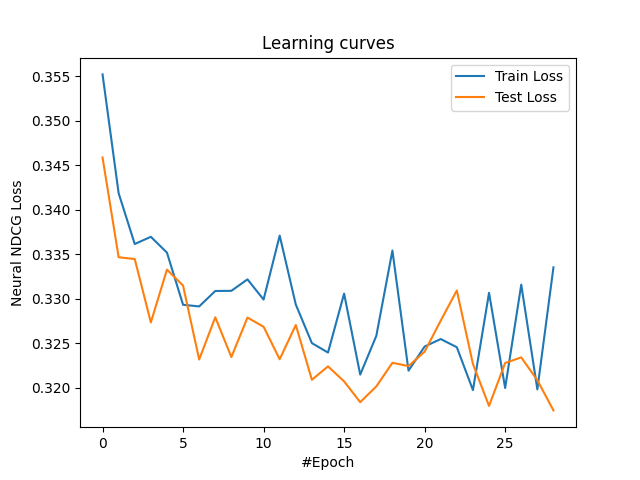
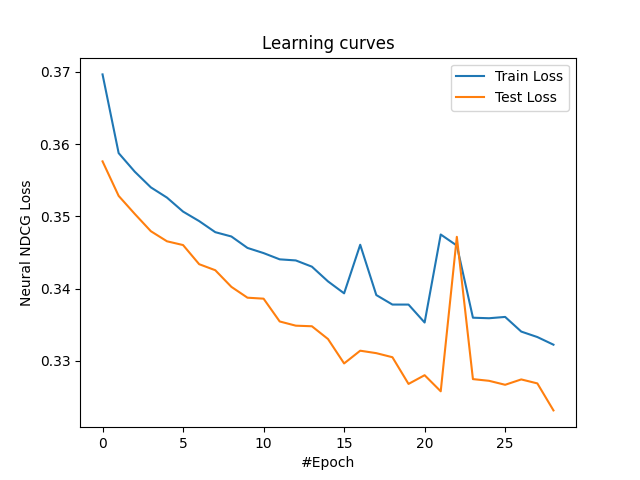
new experiments

diff --git a/src/process_dataset.py b/src/process_dataset.py
@@ -1,12 +1,16 @@
 import numpy as np
 from data_loaders import get_dataset, get_pairwise_dataset
 import pickle
-
+import os
 
 def save_dataset(qids, X, y, folder):
     """
     Save the dataset in the provided folder.
     """
+
+    if not os.path.exists(folder):
+        os.mkdir(folder)
+
     pickle.dump(qids, open(f'{folder}/qids.pickle', 'wb'))
     pickle.dump(y, open(f'{folder}/y.pickle', 'wb'))
     pickle.dump(X, open(f'{folder}/X.pickle', 'wb'))
@@ -181,6 +185,56 @@ def upsample_dataset(qids: np.ndarray, X: np.ndarray, y: np.ndarray):
 
     return qids_upsampled, y_upsampled, X_upsampled
 
+
+def group_by_qids_qbq(qids, y, X):
+    unique_quids = np.unique(qids)
+
+    y_grouped = []
+    X_grouped = []
+    qids_grouped = []
+
+    for qid in unique_quids:
+        mask = (qids == qid)
+
+        y_g = y[mask]
+        X_g = X[mask]
+
+
+        y_grouped.append(y_g)
+        X_grouped.append(X_g)
+        qids_grouped.append(qid)
+
+    qids_grouped = np.array(qids_grouped)
+    return qids_grouped, y_grouped, X_grouped
+
+def group_by_qids(qids, y, X):
+    """
+    Groups the dataset by query id
+    """
+    unique_quids = np.unique(qids)
+    y_grouped = []
+    X_grouped = []
+    qids_grouped = []
+
+    for qid in unique_quids:
+        mask = (qids == qid)
+
+        y_g = y[mask]
+        X_g = X[mask]
+
+        if y_g.shape[0] != 8:
+            continue
+
+        y_grouped.append(y_g)
+        X_grouped.append(X_g)
+        qids_grouped.append(qid)
+
+    # print(y_grouped[100].shape)
+    y_grouped = np.stack(y_grouped)
+    X_grouped = np.stack(X_grouped)
+    qids_grouped = np.array(qids_grouped)
+    return qids_grouped, y_grouped, X_grouped
+
 # Split the MQ2008 dataset
 def process_MQ2008():
     """
@@ -220,37 +274,11 @@ def process_MQ2008_Grouped():
     """
 
     qids, y, X = get_dataset('../data/MQ2008/min.txt')
-    unique_quids = np.unique(qids)
 
-    y_grouped = []
-    X_grouped = []
-    qids_grouped = []
 
-    for qid in unique_quids:
-        mask = (qids == qid)
-
-        y_g = y[mask]
-        X_g = X[mask]
-
-        if y_g.shape[0] != 8:
-            continue
-
-        y_grouped.append(y_g)
-        X_grouped.append(X_g)
-        qids_grouped.append(qid)
-
-    # print(y_grouped[100].shape)
-    y_grouped = np.stack(y_grouped)
-    X_grouped = np.stack(X_grouped)
-    qids_grouped = np.array(qids_grouped)
-
-    # print(y_grouped.shape)
-    # print(X_grouped.shape)
-    # print(qids_grouped.shape)
+    qids_grouped, y_grouped, X_grouped = group_by_qids(qids, y, X)
 
     qids_train, y_train, X_train, qids_evaluation, y_evaluation, X_evaluation = split_dataset(qids_grouped, X_grouped, y_grouped)
-
-    # print(X_train.shape)
 
     # save the evaluation dataset
     save_dataset(qids_evaluation, X_evaluation, y_evaluation, '../data/evaluation/GroupedMQ2008')
@@ -259,30 +287,16 @@ def process_MQ2008_Grouped():
     # save the upsampled dataset
     save_dataset(qids_train, X_train, y_train, '../data/train/GroupedMQ2008')
 
+
+
 def process_MQ2008_Grouped_QbQ():
     """
     Process the MQ2008 pairwise dataset grouped by query
     """
 
     qids, y, X = get_dataset('../data/MQ2008/min.txt')
-    unique_quids = np.unique(qids)
+    qids_grouped, y_grouped, X_grouped = group_by_qids_qbq(qids, y, X)
 
-    y_grouped = []
-    X_grouped = []
-    qids_grouped = []
-
-    for qid in unique_quids:
-        mask = (qids == qid)
-
-        y_g = y[mask]
-        X_g = X[mask]
-
-
-        y_grouped.append(y_g)
-        X_grouped.append(X_g)
-        qids_grouped.append(qid)
-
-    qids_grouped = np.array(qids_grouped)
 
 
     qids_train, y_train, X_train, qids_evaluation, y_evaluation, X_evaluation = split_dataset_qbq(qids_grouped, X_grouped, y_grouped)
@@ -293,7 +307,118 @@ def process_MQ2008_Grouped_QbQ():
 
     save_dataset(qids_train, X_train, y_train, '../data/train/GroupedQbQMQ2008')
 
+
+
+
+
+def load_folded_dataset(folder_path, fold_paths=[], get_data=lambda x: []):
+    """
+    Load the folded dataset
+    """
+
+    qids_train_folds = []
+    y_train_folds = []
+    X_train_folds = []
+
+    qids_evaluation_folds = []
+    y_evaluation_folds = []
+    X_evaluation_folds = []
+
+    for fold in fold_paths:
+        qids_train_fold, y_train_fold, X_train_fold = get_data(os.path.join(folder_path, fold, 'train.txt'))
+        qids_test_fold, y_test_fold, X_test_fold = get_data(os.path.join(folder_path, fold, 'test.txt'))
+        qids_vali_fold, y_vali_fold, X_vali_fold = get_data(os.path.join(folder_path, fold, 'vali.txt'))
+
+        qids_train_folds.append(qids_train_fold)
+        qids_train_folds.append(qids_test_fold)
+        qids_evaluation_folds.append(qids_vali_fold)
+
+        y_train_folds.append(y_train_fold)
+        y_train_folds.append(y_test_fold)
+        y_evaluation_folds.append(y_vali_fold)
+
+        X_train_folds.append(X_train_fold)
+        X_train_folds.append(X_test_fold)
+        X_evaluation_folds.append(X_vali_fold)
+
+    # print(qids_train_folds)
+
+    return np.concatenate(qids_train_folds), np.concatenate(y_train_folds), np.concatenate(X_train_folds), np.concatenate(qids_evaluation_folds), np.concatenate(y_evaluation_folds), np.concatenate(X_evaluation_folds)
+
+
+
+
+def process_MSLR_pairwise(dataset_name, folder_path, folds = []):
+    """
+    Processes in pairwise format
+    """
+    qids_train, y_train, X_train, qids_evaluation, y_evaluation, X_evaluation = load_folded_dataset(folder_path, folds, get_pairwise_dataset)
+
+    save_dataset(qids_evaluation, X_evaluation, y_evaluation, f'../data/evaluation/{dataset_name}')
+
+    qids_upsampled, y_upsampled, X_upsampled = upsample_pairwise_dataset(qids_train, X_train, y_train)
+    save_dataset(qids_upsampled, y_upsampled, X_upsampled, f'../data/train/{dataset_name}')
+
+
+def process_MSLR_grouped(dataset_name, folder_path, folds = []):
+    """
+    Process MSLR in grouped format
+    """
+    qids_train, y_train, X_train, qids_evaluation, y_evaluation, X_evaluation = load_folded_dataset(folder_path, folds, get_dataset)
+
+    qids_train_grouped, y_train_grouped, X_train_grouped = group_by_qids(qids_train, y_train, X_train)
+    qids_evaluation_grouped, y_evaluation_grouped, X_evaluation_grouped = group_by_qids(qids_evaluation, y_evaluation, X_evaluation)
+
+    save_dataset(qids_evaluation_grouped, X_evaluation_grouped, y_evaluation_grouped, f'../data/evaluation/{dataset_name}')
+    save_dataset(qids_train_grouped, X_train_grouped, y_train_grouped, f'../data/train/{dataset_name}')
+
+
+def process_MSLR_grouped_qbq(dataset_name, folder_path, folds=[]):
+    """
+    Process MSLR in grouped qbq format
+    """
+
+    qids_train, y_train, X_train, qids_evaluation, y_evaluation, X_evaluation = load_folded_dataset(folder_path, folds, get_dataset)
+
+    qids_train_grouped, y_train_grouped, X_train_grouped = group_by_qids_qbq(qids_train, y_train, X_train)
+    qids_evaluation_grouped, y_evaluation_grouped, X_evaluation_grouped = group_by_qids_qbq(qids_evaluation, y_evaluation, X_evaluation)
+
+    save_dataset(qids_evaluation_grouped, X_evaluation_grouped, y_evaluation_grouped, f'../data/evaluation/{dataset_name}')
+    save_dataset(qids_train_grouped, X_train_grouped, y_train_grouped, f'../data/train/{dataset_name}')
+
+def process_MSLR10K_Pairwise():
+    """
+    Processes the MSLR10K dataset
+    """
+    process_MSLR_pairwise("PairwiseMSLR10K", "../data/MSLR-WEB10K", folds=['Fold1', 'Fold2', 'Fold3', 'Fold4', 'Fold5'])
+
+def process_MSLR10K_Grouped():
+    """
+    Processes the MSLR10K grouped dataset
+    """
+    process_MSLR_grouped("GroupedMSLR10K", "../data/MSLR-WEB10K", folds=['Fold1', 'Fold2', 'Fold3', 'Fold4', 'Fold5'])
+
+def process_MSLR10K_Grouped_QbQ():
+    """
+    Processes the MSLR10K grouped query by query dataset
+    """
+    process_MSLR_grouped_qbq("GroupedQbQMSLR10K", "../data/MSLR-WEB10K", folds=['Fold1', 'Fold2', 'Fold3', 'Fold4', 'Fold5'])
+
+
+
+def process_MSLR30K_Pairwise():
+    process_MSLR_pairwise("PairwiseMSLR30K", "../data/MSLR-WEB30K", folds=['Fold1', 'Fold2', 'Fold3', 'Fold4', 'Fold5'])
+
+def process_MSLR30K_Grouped():
+    process_MSLR_grouped("GroupedMSLR30K", "../data/MSLR-WEB30K", folds=['Fold1', 'Fold2', 'Fold3', 'Fold4', 'Fold5'])
+
+def process_MSLR30K_Grouped_QbQ():
+    process_MSLR_grouped_qbq("GroupedQbQMSLR30K", "../data/MSLR-WEB30K", folds=['Fold1', 'Fold2', 'Fold3', 'Fold4', 'Fold5'])
+
+
 # process_MQ2008()
 # process_MQ2008_Pairwise()
 # process_MQ2008_Grouped()
-process_MQ2008_Grouped_QbQ()
+# process_MQ2008_Grouped_QbQ()
+# process_MSLR10K_Pairwise()
+process_MSLR10K_Grouped_QbQ()

diff --git a/src/experiments.py b/src/experiments.py
@@ -64,7 +64,7 @@ EXPERIMENTS = {
         'train_folder': '../data/train/GroupedQbQMQ2008',
         'experiment_name': 'neural_ndcg_net_qbq',
         'ranker': approx_ndcg_ranker,
-        'lr': 0.001,
+        'lr': 0.0001,
         'batch_size': 64,
         'num_epochs': 30,
         'model_name': 'neural_ndcg_net_qbq.pt',
@@ -139,6 +139,34 @@ EXPERIMENTS = {
 
         }
     },
+
+    'ApproxNDCG_QbQ_MSLR10K': {
+        'train_folder': '../data/train/GroupedQbQMSLR10K',
+        'experiment_name': 'approx_ndcg_net_qbq_10k',
+        'ranker': approx_ndcg_ranker,
+        'lr': 1e-4,
+        'weight_decay': 1e-5,
+        'batch_size': 64,
+        'num_epochs': 100,
+        'model_name': 'approx_ndcg_net_qbq_10k.pt',
+        'plot_y_label_name': 'Approx NDCG Loss',
+        'plot_name': 'approx_ndcg_net_qbq_10k.png',
+        'model': ApproxNdcgNet(136, 5),
+        'loss_fn': approxNDCGLoss,
+        'layer_structure': [136, 5],
+        'metrics': {
+            'ndsg': ndsg,
+            'ndsg@2': lambda y_pred, y_true: ndsg(y_pred, y_true, k=2),
+            'ndsg@4': lambda y_pred, y_true: ndsg(y_pred, y_true, k=4),
+            'ndsg@6': lambda y_pred, y_true: ndsg(y_pred, y_true, k=6),
+            'precision@2': lambda y_pred, y_true: precision_at_k(y_pred, y_true, 2),
+            'precision@4': lambda y_pred, y_true: precision_at_k(y_pred, y_true, 4),
+            'precision@6': lambda y_pred, y_true: precision_at_k(y_pred, y_true, 6),
+            'average_precision': average_precision
+
+        }
+    },
+
 
     'NeuralNDCG_reg': {
         'train_folder': '../data/train/MQ2008',

diff --git a/src/train_qbq.py b/src/train_qbq.py
@@ -9,6 +9,10 @@ import numpy as np
 import matplotlib.pyplot as plt
 from experiments import EXPERIMENTS
 import sys
+from utils import get_torch_device
+
+
+device = get_torch_device()
 
 experiment = EXPERIMENTS[sys.argv[1]]
 
@@ -21,15 +25,16 @@ X_normalized = [normalize_features(x) for x in X]
 X_train, X_test, y_train, y_test = train_test_split(X, y_full, test_size=0.33, random_state=21)
 
 # convert the data to tensors
-X_train = [torch.from_numpy(x).type(torch.FloatTensor) for x in X_train]
-X_test = [torch.from_numpy(x).type(torch.FloatTensor) for x in X_test]
-y_train = [torch.from_numpy(x).type(torch.FloatTensor) for x in y_train]
-y_test = [torch.from_numpy(x).type(torch.FloatTensor) for x in y_test]
-X_normalized = [torch.from_numpy(x).type(torch.FloatTensor) for x in X_normalized]
-y_full = [torch.from_numpy(x).type(torch.FloatTensor) for x in y_full]
+X_train = [torch.from_numpy(x).type(torch.FloatTensor).to(device) for x in X_train]
+X_test = [torch.from_numpy(x).type(torch.FloatTensor).to(device) for x in X_test]
+y_train = [torch.from_numpy(x).type(torch.FloatTensor).to(device) for x in y_train]
+y_test = [torch.from_numpy(x).type(torch.FloatTensor).to(device) for x in y_test]
+X_normalized = [torch.from_numpy(x).type(torch.FloatTensor).to(device) for x in X_normalized]
+y_full = [torch.from_numpy(x).type(torch.FloatTensor).to(device) for x in y_full]
 
 # define the model and params
 net = experiment['model']
+net = net.to(device)
 
 optimizer = optim.Adam(net.parameters(), lr=experiment['lr'])
 

diff --git a/src/evaluate.py b/src/evaluate.py
@@ -20,7 +20,8 @@ experiment = EXPERIMENTS[sys.argv[1]]
 # load the experiment batches
 
 def load_experiment_batches():
-    qids, y, X = load_dataset('../data/evaluation/MQ2008')
+    evaluation_folder = f"../data/evaluation/f{experiment['train_folder'].split('/')[-1]}"
+    qids, y, X = load_dataset(evaluation_folder)
     X_norm = normalize_features(X)
     # group the retrieved documents by query
     return group_data_by_query_id(qids, y, X_norm)

diff --git a/src/utils.py b/src/utils.py
@@ -11,8 +11,8 @@ def get_torch_device():
 
     :return: CUDA-capable GPU if available, CPU otherwise
     """
-    return 'cpu'
-    # return torch.device("cuda:0") if torch.cuda.is_available() else torch.device("cpu")
+    # return 'cpu'
+    return torch.device("cuda:0") if torch.cuda.is_available() else torch.device("cpu")
 
 
 def sinkhorn_scaling(mat, mask=None, tol=1e-6, max_iter=50):

diff --git a/src/analysis.py b/src/analysis.py
@@ -2,7 +2,7 @@ import numpy as np
 from data_loaders import get_dataset, get_pairwise_dataset
 import pickle
 
-qids, y, X = get_dataset('../data/MQ2008/min.txt')
+qids, y, X = get_dataset('../data/MSLR-WEB10K/Fold1/train.txt')
 unique_quids = np.unique(qids)
 
 y_grouped = []

diff --git a/src/data_loaders.py b/src/data_loaders.py
@@ -30,6 +30,7 @@ def process_dataset(dataset: str):
         features.append(feature_vec)
 
     # print(scores)
+    print('Dataset loaded and processed')
     return np.array(qids), np.array(scores), np.stack(features)
 
 
